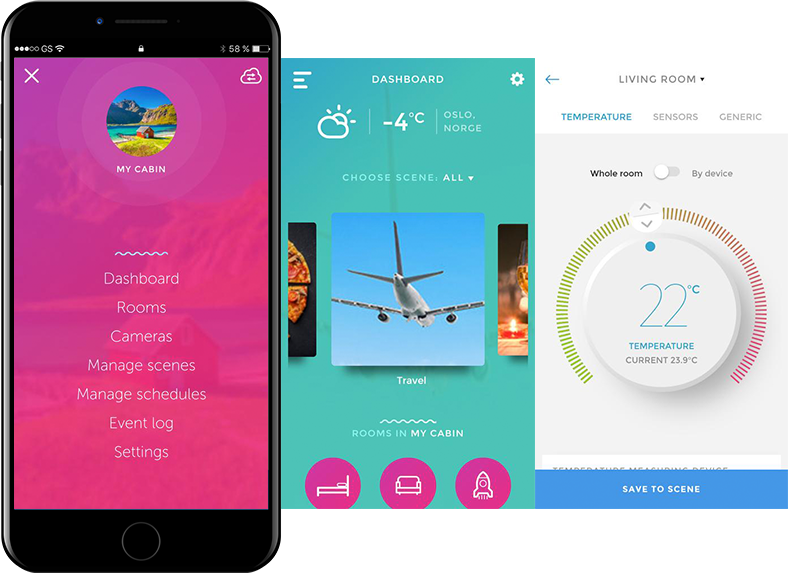
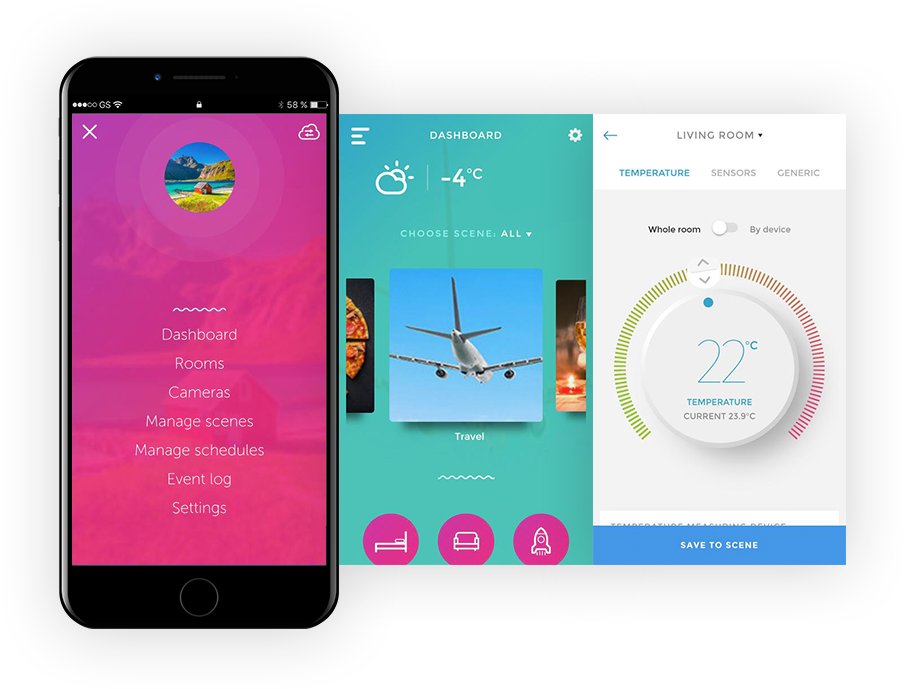
Fixed Smarter Home Control header

diff --git a/assets/styles/component-styles/smarter-home-control/shc-hero-header.scss b/assets/styles/component-styles/smarter-home-control/shc-hero-header.scss
@@ -10,28 +10,32 @@
 
   @media #{$tablet-only} {
     padding: 50px 0 510px;
-    margin-bottom: 120px;
+    margin-bottom: -70px;
   }
   @media #{$tablet-prt-only} {
     padding: 50px 0 970px;
+
+    .d-green-bar:after {
+      right: 0;
+      top: 6vw;
+    }
   }
   @media #{$phone-only} {
-    padding: 40px 0 900px;
-  }
-  @media #{$laptop-only} {
-    margin-bottom: -120px;
-  }
-  @media #{$portrait} {
+    padding: 40px 0 600px;
+
     .d-green-bar:after {
       display: none;
     }
+  }
+  @media #{$laptop-only} {
+    margin-bottom: -120px;
   }
 }
 
 // Text Content
 .zuc-shc-content {
   width: 90%;
-  padding: 4vw 5.5vw 4vw 4vw;
+  padding: 2.5vw 5.5vw 2.5vw 2.5vw;
   color: $color-zuc-darkindigo;
   background: $white;
   position: relative;
@@ -43,18 +47,20 @@
     left: auto;
     top: auto;
     margin: 0 auto;
-    padding: 4vw 4vw 16vw;
+    padding: 6vw 6vw 20vw;
   }
 
   @media #{$tablet-only} {
-    width: 90%;
+    width: 80%;
     top: auto;
     left: auto;
-    margin: 0 auto;
-    padding: 4vw;
+    padding: 6vw;
+    margin-right: 15%;
+    margin-left: 5%;
   }
   @media #{$tablet-lnd-only} {
     width: 80%;
+    padding: 4vw;
   }
   @media #{$laptop-only} {
     width: 45%;
@@ -85,7 +91,7 @@
     @media #{$tablet-prt-only} {
       width: 40%;
       right: -20px;
-      bottom: -70%;
+      bottom: -50%;
     }
     @media #{$tablet-lnd-only} {
       width: 35%;
@@ -161,17 +167,20 @@
 .--layer-one {
   background-image: url('../../assets/images/smarter-home/header-blob.svg');
   z-index: -1;
-  top: 15%;
+  top: 5%;
   padding-top: 54%;
   background-position: left;
 
+  @media #{$laptop-only} {
+    top: 10%;
+  }
   @media #{$phone-only} {
     top: 35%;
     padding-top: 160%;
     width: 250%;
   }
   @media #{$tablet-prt-only} {
-    top: 35%;
+    top: 25%;
     padding-top: 160%;
     width: 250%;
   }
@@ -189,19 +198,19 @@
   transform: translate3d(-90%, -90%, 0);
 
   @media #{$tablet-prt-only} {
-    display: none;
+    transform: translate3d( -10%, -76%, 0) scale(1.1);
   }
   @media #{$tablet-lnd-only} {
     transform: translate3d(-90%, 0, 0);
   }
   @media #{$laptop-only} {
-    transform: translate3d(-90%, -130%, 0);
+    display: none;
   }
   @media #{$desktop-only} {
-    transform: translate3d(-90%, -50%, 0);
+    transform: translate3d(-80%, -56%, 0) scale(.95);
   }
   @media #{$xl-up} {
-    transform: translate3d(-90%, -40%, 0) scale(1.3);
+    transform: translate3d(-100%, -40%, 0) scale(1.3);
   }
 }
 
@@ -218,7 +227,7 @@
     transform: translateY(-240%);
   }
   @media #{$desktop-only} {
-    transform: translateY(-210%);
+    transform: translateY(-235%);
   }
   @media #{$xl-up} {
     transform: translateY(-240%) scale(1.4);
@@ -235,16 +244,16 @@
     transform: translateY(320%);
   }
   @media #{$tablet-lnd-only} {
-    transform: translate3D( -25%, 175%, 0);
+    transform: translate3D( -15%, 175%, 0);
   }
   @media #{$laptop-only} {
-    transform: translate3D( -25%, 115%, 0);
+    transform: translate3D( -15%, 85%, 0) scale(.9);
   }
   @media #{$desktop-only} {
-    transform: translate3D( -25%, 155%, 0);
+    transform: translate3D( -15%, 80%, 0);
   }
   @media #{$xl-up} {
-    transform: translate3D( -25%, 175%, 0) scale(1.4);
+    transform: translate3D( -15%, 105%, 0) scale(1.4);
   }
 }
 
@@ -255,19 +264,19 @@
   transform: translateY(-150%);
 
   @media #{$tablet-prt-only} {
-    transform: translateY(-40%);
+    transform: translateY(-140%);
   }
   @media #{$tablet-lnd-only} {
     transform: translateY(0) translateX(-8%) scale(.9);
   }
   @media #{$laptop-only} {
-    transform: translateY(-170%);
+    transform: translateX(-10%) translateY(-190%) scale(.9);
   }
   @media #{$desktop-only} {
-    transform: translateY(-150%);
+    transform: translateY(-170%) scale(1.1);
   }
   @media #{$xl-up} {
-    transform: translateY(-150%) scale(1.6);
+    transform: translateY(-185%) scale(1.6);
   }
 }
 
@@ -284,7 +293,7 @@
     transform: translate3d(-60%, -300%, 0);
   }
   @media #{$desktop-only} {
-    transform: translate3d(-60%, -260%, 0);
+    transform: translate3d(-45%, -230%, 0);
   }
   @media #{$xl-up} {
     transform: translate3d(-20%, -200%, 0) scale(1.5);
@@ -298,13 +307,13 @@
   transform: translate3d(58%, -170%, 0);
 
   @media #{$tablet-prt-only} {
-    transform: translate3d(58%, -66%, 0);
+    transform: translate3d(58%, -126%, 0);
   }
   @media #{$tablet-lnd-only} {
     transform: translate3d(58%, 0, 0);
   }
   @media #{$desktop-only} {
-    transform: translate3d(58%, -170%, 0);
+    transform: translate3d(58%, -140%, 0);
   }
   @media #{$xl-up} {
     transform: translate3d(88%, -170%, 0) scale(1.4);
@@ -323,10 +332,10 @@
     display: none;
   }
   @media #{$desktop-only} {
-    transform: translate3d(-325%, -218%, 0);
+    transform: translate3d(-305%, -220%, 0);
   }
   @media #{$xl-up} {
-    transform: translate3d(-425%, -218%, 0) scale(1.5);
+    transform: translate3d(-425%, -188%, 0) scale(1.5);
   }
 }
 
@@ -341,10 +350,10 @@
     display: block;
   }
   @media #{$desktop-only} {
-    transform: translate3d(-310%, -240%, 0) scale(1.2);
+    transform: translate3d(-240%, -155%, 0);
   }
   @media #{$xl-up} {
-    transform: translate3d(-430%, -290%, 0) scale(1.3);
+    transform: translate3d(-290%, -175%, 0) scale(1.2);
   }
 }
 

diff --git a/assets/styles/component-styles/text-blocks.scss b/assets/styles/component-styles/text-blocks.scss
@@ -90,8 +90,8 @@
     text-transform: uppercase;
     color: $color-zuc-indigo;
     font-weight: 600;
-    border-bottom: 2px solid $color-zuc-indigo;
-    padding: 0 0 1px;
+    border-bottom: 1px solid $color-zuc-indigo;
+    padding: 0 0 5px;
     line-height: 1.6;
     font-size: ( 10 / 3.2 ) * 1vw;
 
@@ -103,7 +103,7 @@
     }
     &:hover {
       color: $color-zuc-lilac;
-      border-bottom: 2px solid $color-zuc-lilac;
+      border-bottom: 1px solid $color-zuc-lilac;
     }
   }
 }

diff --git a/assets/styles/typography.scss b/assets/styles/typography.scss
@@ -30,12 +30,11 @@ h6,.h6, {
 // Responsive Font Size Maps
 $p-font-sizes: (
   //- Tweaked for ZUC - A.
-  null  : 4.3vw,
+  null  : 4.0vw,
   $tablet-up  : 2.50vw,
   $tablet-lnd-only : 1.5vw,
   $laptop-up : 1.2vw,
-  $xl-up : 1vw,
-  $desktop-only : .9375vw
+  $desktop-up : .9375vw,
 );
 
 $h1-font-sizes: (
